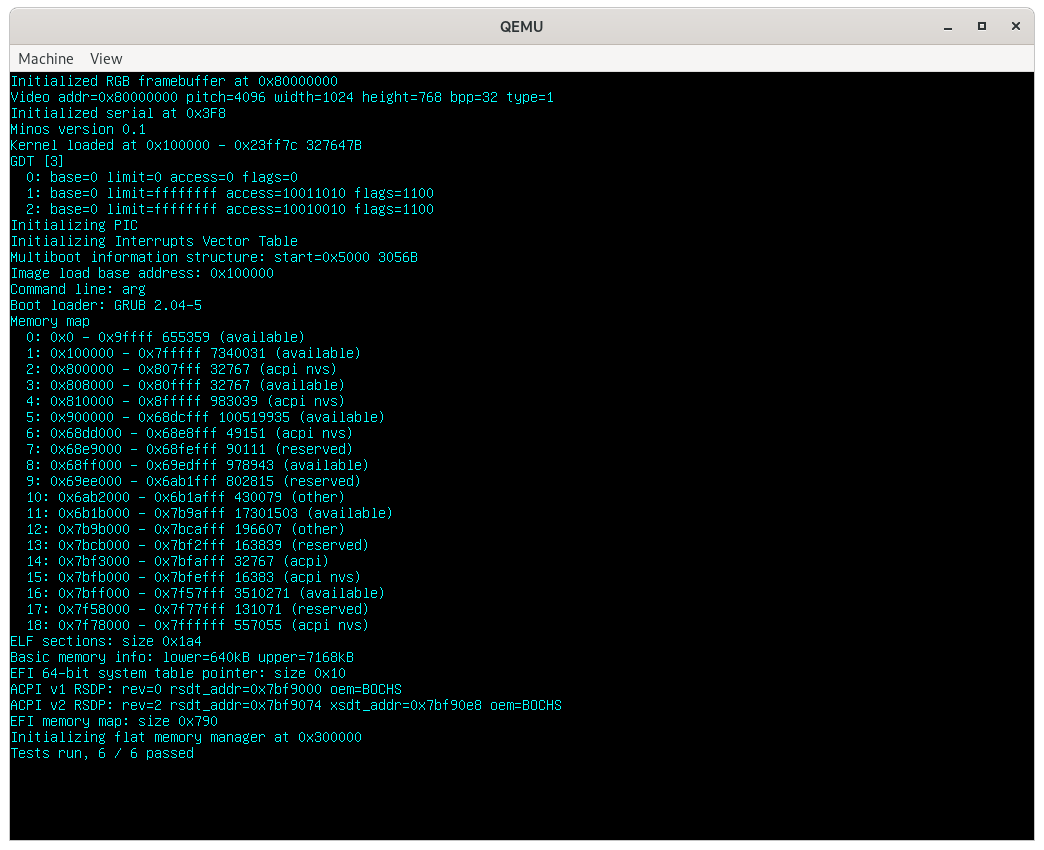
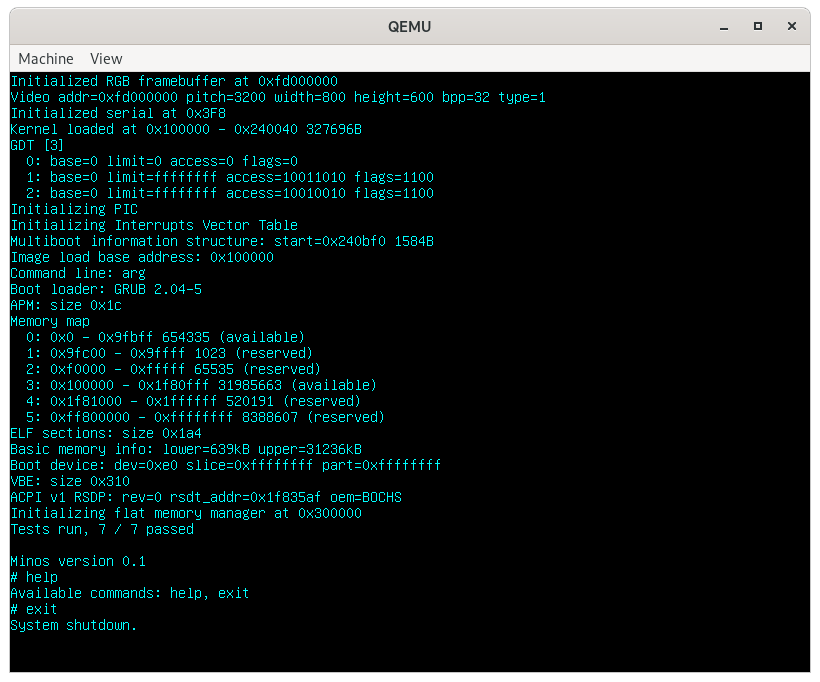
Basic command interpreter

diff --git a/src/keyboard.c b/src/keyboard.c
@@ -80,14 +80,15 @@ void kbd_interrupt() {
                 char last_char = kbdus[scancode];
                 if (line_status == READLINE_BLOCKED) {
                         if (line_counter < MAX_READLINE_LENGTH-1) {
-                                linebuf[line_counter] = last_char;
-                                putchar(last_char);
-                                line_counter = line_counter + 1;
                                 if (last_char == '\n') {
                                         linebuf[line_counter] = '\0';
                                         line_counter = 0;
                                         line_status  = READLINE_READY;
+                                } else {
+                                        linebuf[line_counter] = last_char;
+                                        line_counter = line_counter + 1;
                                 }
+                                putchar(last_char);
                         } else {
                                 putchar('\n');
                                 linebuf[line_counter] = '\0';

diff --git a/src/shell.c b/src/shell.c
@@ -17,8 +17,18 @@
 
 #include "shell.h"
 #include "keyboard.h"
+#include "libk.h"
 
 char line[MAX_READLINE_LENGTH];
+
+const char* commands = "Available commands: help, exit";
+
+static int cmd(const char *cmd, char *input) {
+        if (strncmp (cmd, input, MAX_READLINE_LENGTH) == 0)
+                return 0;
+
+        return 1;
+}
 
 void start_interactive_shell()
 {
@@ -28,6 +38,14 @@ void start_interactive_shell()
         for (;;) {
                 printf("# ");
                 block_and_readline(line);
+
+                if (cmd("help", line) == 0) {
+                        printf ("%s\n", commands);
+                } else if (cmd("exit", line) == 0) {
+                        break;
+                } else {
+                        printf ("Unknown command. %s\n", commands);
+                }
         }
 #else
         printf("Enable keyboard driver for interactive shell\n");
